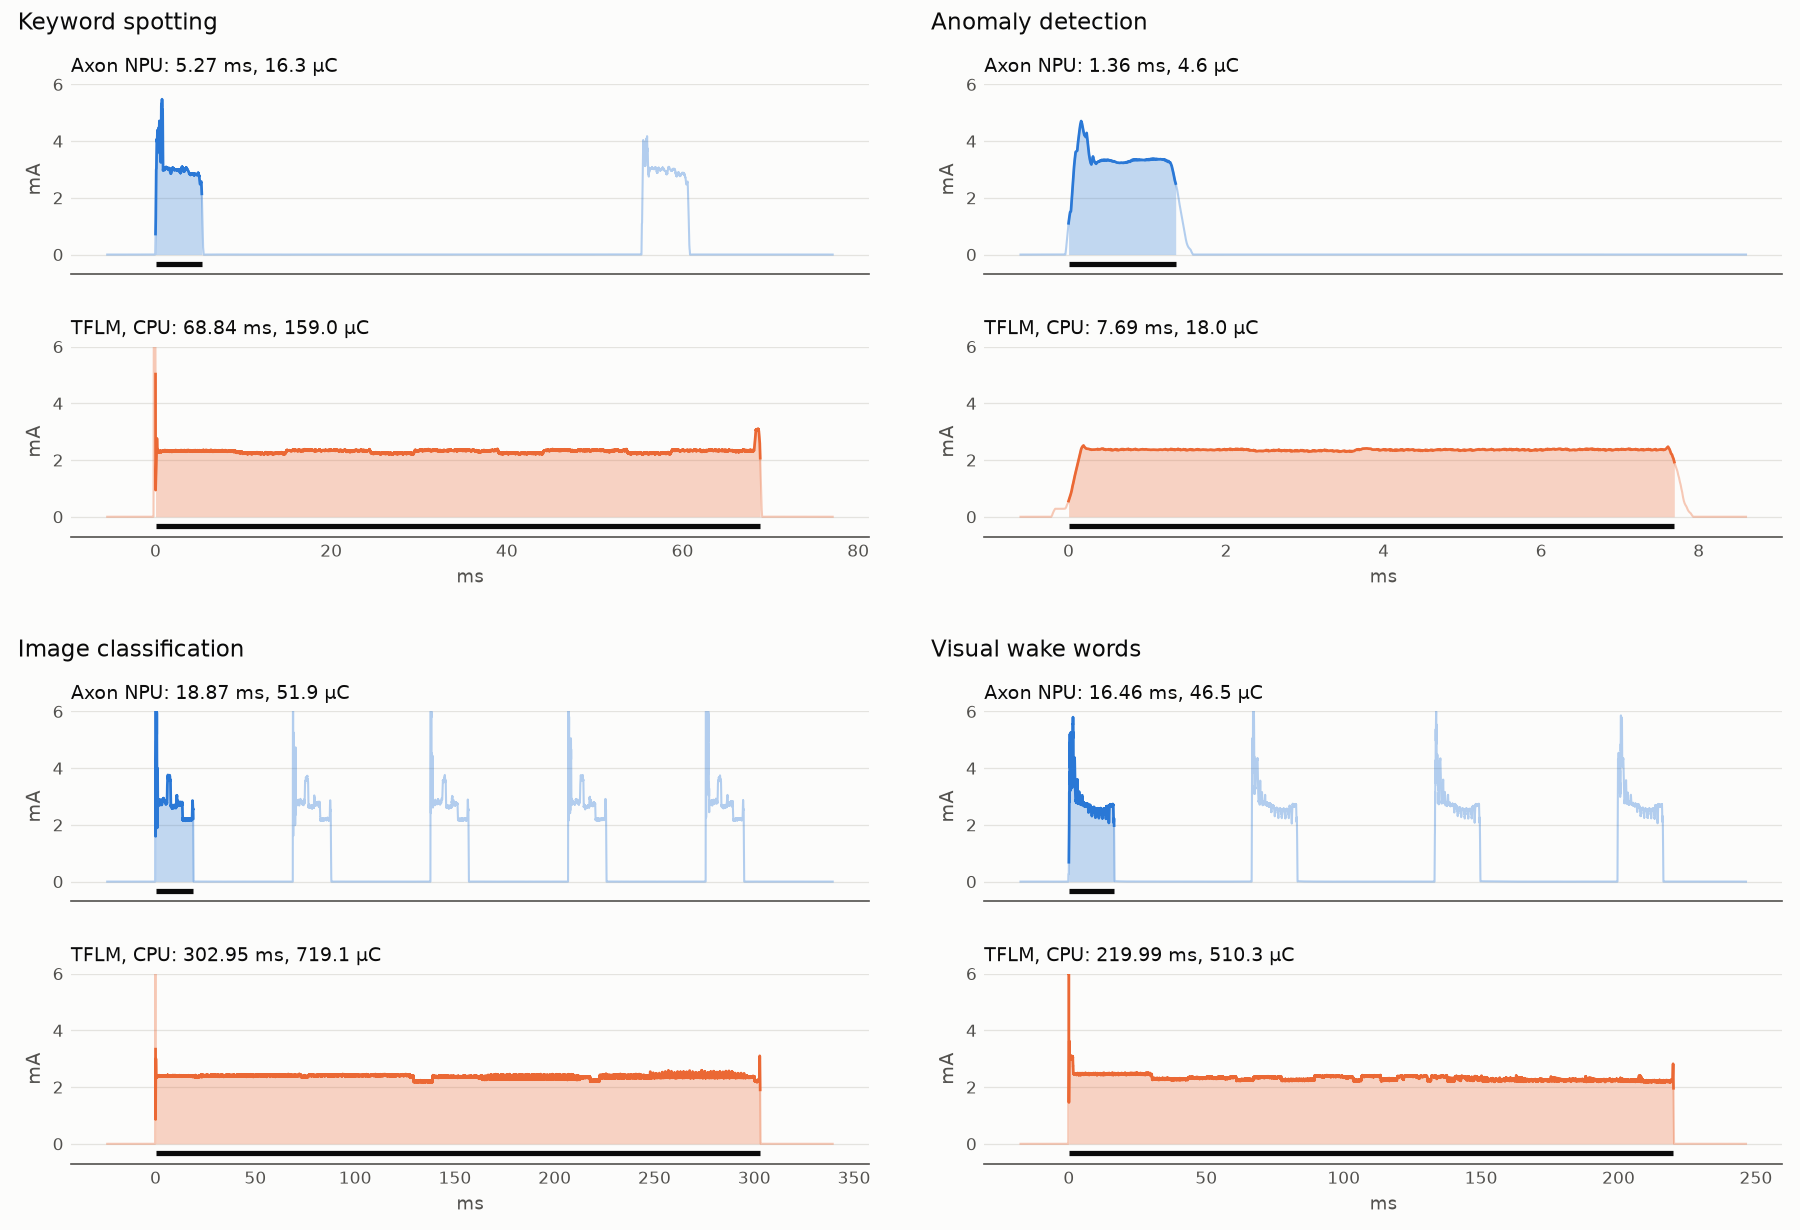
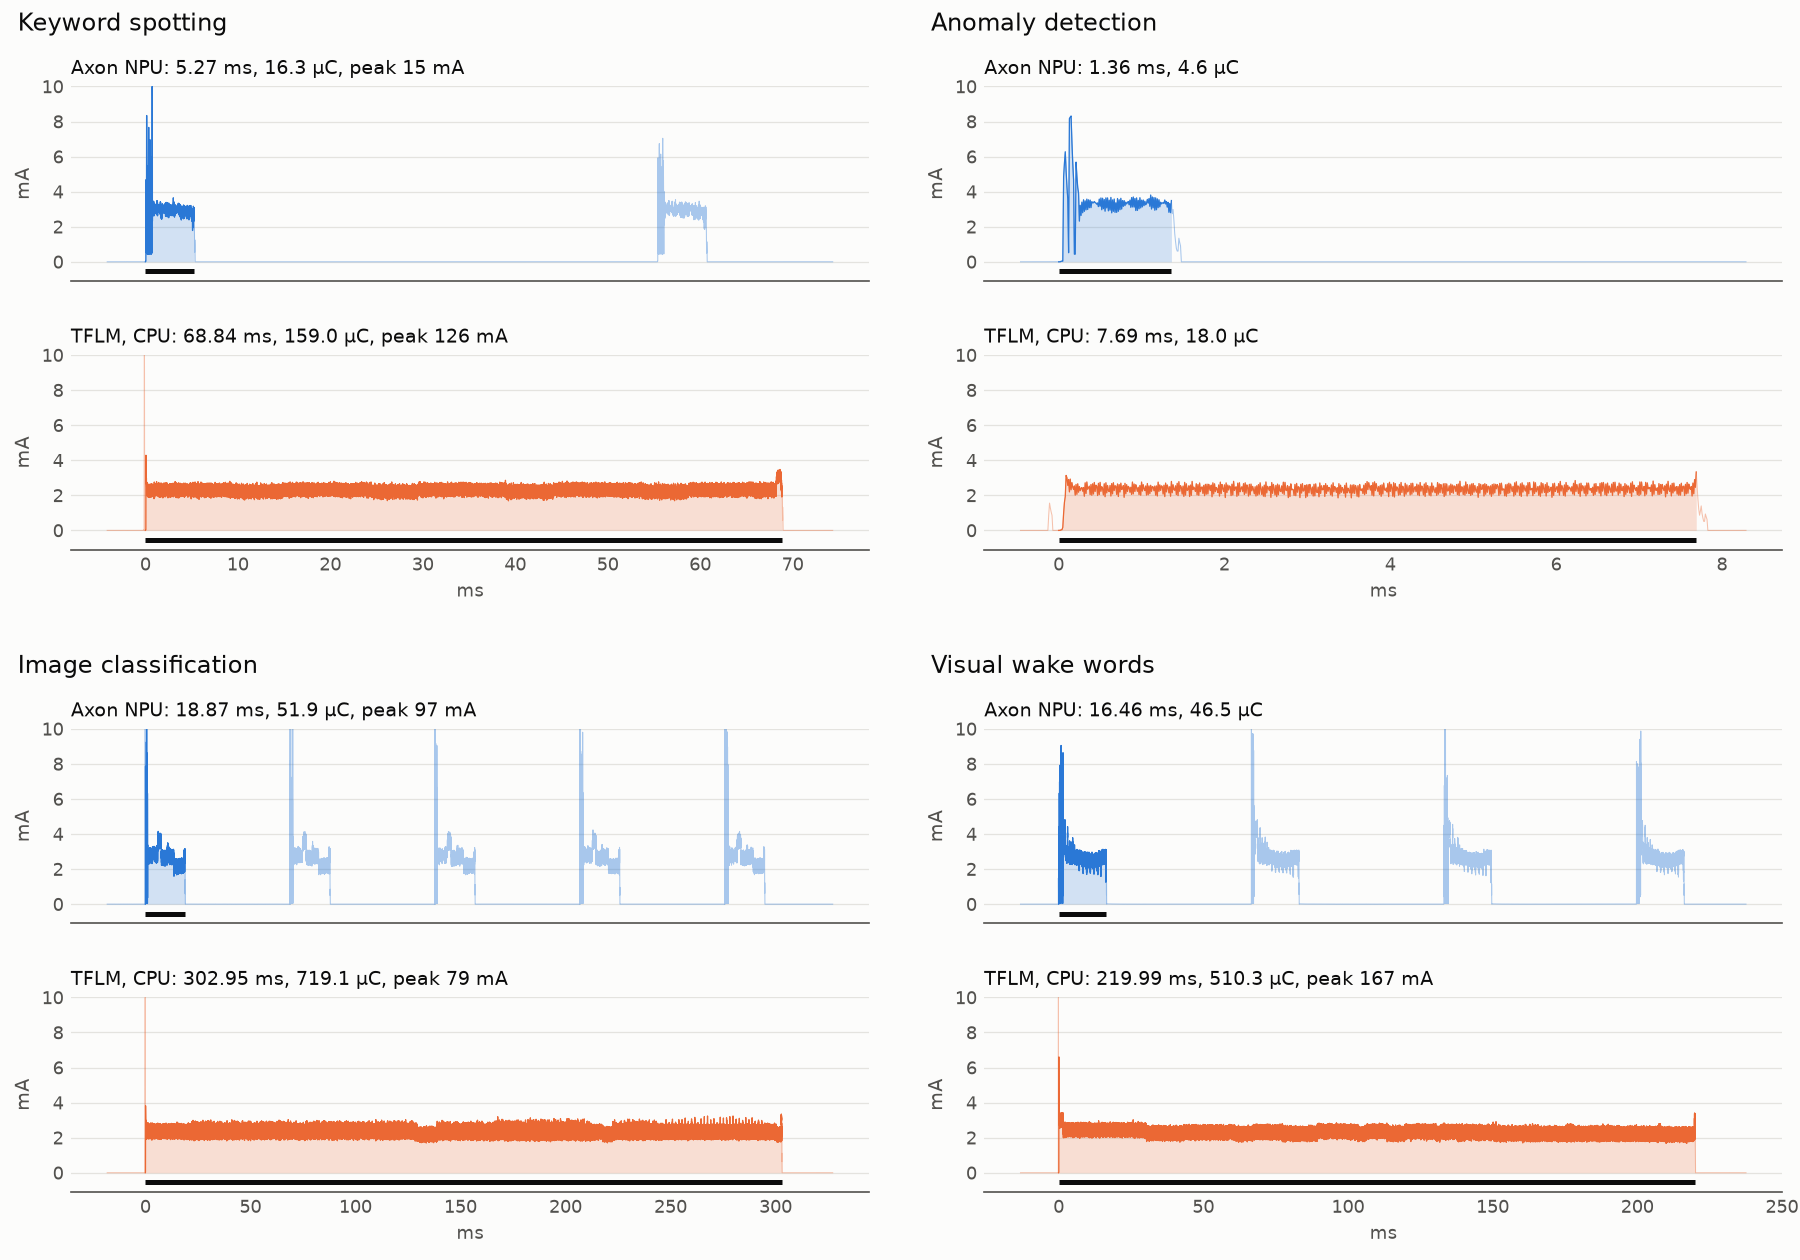
bench: bars and raw traces in separate 2x2 figures

diff --git a/bench/plot.py b/bench/plot.py
@@ -16,122 +16,94 @@ MODELS = {"kws": "Keyword spotting", "ad": "Anomaly detection",
           "ic": "Image classification", "vww": "Visual wake words"}
 BACKENDS = {"axon": ("Axon NPU", "#2a78d6"), "tflm": ("TFLM, CPU", "#eb6834")}
 INK, MUTED, SURFACE, GRID = "#0b0b0b", "#52514e", "#fcfcfb", "#e4e3df"
-DT = 1e-5        # s per sample
-YMAX = 6.0       # mA: the wake-up bursts of the PPK2 go above
-SMOOTH = 20      # samples of the moving average, 0.2 ms
-captures = {}
+DT = 1e-5      # s per sample
+YMAX = 10.0    # mA: the wake-up bursts of the PPK2 go above
 
 
 def style(ax):
     ax.set_facecolor(SURFACE)
     ax.grid(axis="y", color=GRID, linewidth=0.6)
     ax.set_axisbelow(True)
-    ax.tick_params(labelsize=8, colors=MUTED, length=0)
+    ax.tick_params(labelsize=8.5, colors=MUTED, length=0)
     for side in ("top", "right", "left"):
         ax.spines[side].set_visible(False)
     ax.spines["bottom"].set_color(MUTED)
 
 
+def report(backend, model):
+    """Width in ms and median charge in µC of the D0 regions, from the report."""
+    text = (HERE / f"{backend}_{model}.txt").read_text()
+    line = next(l for l in text.splitlines() if l.startswith("D0 "))
+    return float(re.search(r"width\s+([\d.]+)", line).group(1)), float(re.search(r"median ([\d.]+)", line).group(1))
+
+
+def bars(index, unit, what, out):
+    fig, axes = plt.subplots(2, 2, figsize=(7.2, 6.2), facecolor=SURFACE)
+    for ax, (model, title) in zip(axes.flat, MODELS.items()):
+        values = [report(backend, model)[index] for backend in BACKENDS]
+        drawn = ax.bar(range(2), values, width=0.58, color=[c for _, c in BACKENDS.values()])
+        for bar, value in zip(drawn, values):
+            ax.text(bar.get_x() + bar.get_width() / 2, value, f"{value:,.0f}" if value >= 100 else f"{value:.3g}",
+                    ha="center", va="bottom", fontsize=9.5, color=INK)
+        ax.set_title(f"{title}\n{values[1] / values[0]:.1f} times less on Axon", fontsize=10, color=INK, loc="left")
+        ax.set_ylim(0, max(values) * 1.15)
+        ax.set_xlim(-0.8, 1.8)
+        ax.set_xticks([])
+        ax.set_ylabel(unit, fontsize=9, color=MUTED)
+        ax.locator_params(axis="y", nbins=5)
+        style(ax)
+    fig.legend(handles=[plt.Rectangle((0, 0), 1, 1, color=c) for _, c in BACKENDS.values()],
+               labels=[n for n, _ in BACKENDS.values()], loc="lower center", ncol=2, frameon=False,
+               fontsize=9.5, labelcolor=INK)
+    fig.suptitle(f"{what} per inference on the nRF54LM20B", fontsize=11.5, color=INK, x=0.02, ha="left")
+    fig.tight_layout(rect=(0, 0.05, 1, 0.96))
+    fig.savefig(HERE / out, dpi=150)
+
+
 def capture(backend, model):
-    """Current in µA, the regions where D0 is high, and the one with the median charge."""
-    if (backend, model) not in captures:
-        rows = np.loadtxt(HERE / f"{backend}_{model}.csv", delimiter=",", skiprows=1, usecols=(1, 3))
-        current, d0 = rows[:, 0], rows[:, 1].astype(np.int8)
-        edges = np.flatnonzero(np.diff(d0)) + 1
-        rises = [e for e in edges if d0[e] == 1]
-        falls = [e for e in edges if d0[e] == 0 and e > rises[0]]
-        regions = list(zip(rises, falls))
-        charge = [current[a:b].sum() * DT for a, b in regions]
-        captures[backend, model] = current, regions, int(np.argsort(charge)[len(charge) // 2]), charge
-    return captures[backend, model]
+    """Current in µA, and the D0 region with the median charge."""
+    rows = np.loadtxt(HERE / f"{backend}_{model}.csv", delimiter=",", skiprows=1, usecols=(1, 3))
+    current, d0 = rows[:, 0], rows[:, 1].astype(np.int8)
+    edges = np.flatnonzero(np.diff(d0)) + 1
+    rises = [e for e in edges if d0[e] == 1]
+    falls = [e for e in edges if d0[e] == 0 and e > rises[0]]
+    regions = list(zip(rises, falls))
+    charge = [current[a:b].sum() * DT for a, b in regions]
+    return current, regions[int(np.argsort(charge)[len(charge) // 2])]
 
 
-def trace(ax, backend, model, span, detailed):
-    """One inference, from just before its start, over `span` ms."""
-    name, colour = BACKENDS[backend]
-    current, regions, i, charge = capture(backend, model)
-    a, b = regions[i]
-    lo, hi = a - int(0.08 * span / 1e3 / DT), a + int(1.12 * span / 1e3 / DT)
-    t = (np.arange(lo, hi) - a) * DT * 1e3
-    y = np.convolve(current[lo:hi] / 1000, np.ones(SMOOTH) / SMOOTH, mode="same")
-    width = (b - a) * DT * 1e3
-    inside = (t >= 0) & (t <= width)
-    ax.plot(t, np.minimum(y, YMAX), color=colour, linewidth=1.0, alpha=0.35)
-    ax.plot(t[inside], np.minimum(y[inside], YMAX), color=colour, linewidth=1.3)
-    ax.fill_between(t, 0, np.minimum(y, YMAX), where=inside, color=colour, alpha=0.28, linewidth=0)
-    ax.hlines(-0.32, 0, width, color=INK, linewidth=2.5)
-    label = f"{name}: {width:.2f} ms, {charge[i]:.1f} µC"
-    if detailed:
-        label += f", mean {current[a:b].mean() / 1000:.2f} mA"
-        if y.max() > YMAX:
-            peak = t[int(np.argmax(y))]
-            ax.annotate(f"wake-up burst, to {y.max():.0f} mA", xy=(peak, YMAX),
-                        xytext=(peak + 0.04 * span, YMAX * 0.82), fontsize=8, color=MUTED,
-                        arrowprops=dict(arrowstyle="-", color=MUTED, linewidth=0.6))
-        if i + 1 < len(regions) and (regions[i + 1][0] - a) * DT * 1e3 < 1.1 * span:
-            ax.text((regions[i + 1][0] - a) * DT * 1e3, 4.7, "next inference, after a 50 ms sleep",
-                    fontsize=8, color=MUTED, ha="center")
-    ax.set_title(label, fontsize=9.5 if detailed else 9, color=INK, loc="left")
-    ax.set_ylim(-0.7, YMAX)
-    ax.set_yticks([0, 2, 4, 6])
-    ax.set_ylabel("mA", fontsize=9, color=MUTED)
-    style(ax)
-
-
-def span(model):
-    """Width in ms of the longer of the two inferences of a model."""
-    return max(r[i][1] - r[i][0] for _, r, i, _ in (capture(b, model) for b in BACKENDS)) * DT * 1e3
-
-
-def trace_one(model, out):
-    fig, axes = plt.subplots(2, 1, figsize=(9, 4.4), sharex=True, sharey=True, facecolor=SURFACE)
-    for ax, backend in zip(axes, BACKENDS):
-        trace(ax, backend, model, span(model), True)
-    axes[1].set_xlabel("Time from the start of the inference (ms). Black bar: the D0 marker", fontsize=9, color=MUTED)
-    fig.suptitle(f"Current of the nRF54LM20B during one {MODELS[model].lower()} inference",
-                 fontsize=11, color=INK, x=0.01, ha="left")
-    fig.tight_layout(rect=(0, 0, 1, 0.97))
-    fig.savefig(HERE / out, dpi=160)
-
-
-def trace_all(out):
-    fig = plt.figure(figsize=(12, 8.2), facecolor=SURFACE)
+def traces(out):
+    """Raw samples of one inference per backend, the two of a model on the same scales."""
+    fig = plt.figure(figsize=(12, 8.4), facecolor=SURFACE)
     for sub, (model, title) in zip(fig.subfigures(2, 2, wspace=0.03, hspace=0.04).flat, MODELS.items()):
         sub.set_facecolor(SURFACE)
         axes = sub.subplots(2, 1, sharex=True, sharey=True)
-        for ax, backend in zip(axes, BACKENDS):
-            trace(ax, backend, model, span(model), False)
+        captures = {backend: capture(backend, model) for backend in BACKENDS}
+        span = max(b - a for _, (a, b) in captures.values()) * DT * 1e3
+        for ax, (backend, (name, colour)) in zip(axes, BACKENDS.items()):
+            current, (a, b) = captures[backend]
+            lo, hi = a - int(0.06 * span / 1e3 / DT), a + int(1.08 * span / 1e3 / DT)
+            t = (np.arange(lo, hi) - a) * DT * 1e3
+            y = current[lo:hi] / 1000
+            width = (b - a) * DT * 1e3
+            inside = (t >= 0) & (t <= width)
+            ax.plot(t, np.minimum(y, YMAX), color=colour, linewidth=0.5, alpha=0.4)
+            ax.plot(t[inside], np.minimum(y[inside], YMAX), color=colour, linewidth=0.6)
+            ax.fill_between(t, 0, np.minimum(y, YMAX), where=inside, color=colour, alpha=0.2, linewidth=0)
+            ax.hlines(-0.55, 0, width, color=INK, linewidth=2.4)
+            peak = y[(t >= -0.02 * span) & (t <= width)].max()
+            ax.set_title(f"{name}: {width:.2f} ms, {current[a:b].sum() * DT:.1f} µC"
+                         + (f", peak {peak:.0f} mA" if peak > YMAX else ""), fontsize=9, color=INK, loc="left")
+            ax.set_ylim(-1.1, YMAX)
+            ax.set_yticks([0, 2, 4, 6, 8, 10])
+            ax.set_ylabel("mA", fontsize=9, color=MUTED)
+            style(ax)
         axes[1].set_xlabel("ms", fontsize=8.5, color=MUTED)
-        sub.suptitle(title, fontsize=11, color=INK, x=0.02, ha="left")
+        sub.suptitle(title, fontsize=11.5, color=INK, x=0.02, ha="left")
         sub.subplots_adjust(left=0.08, right=0.98, top=0.86, bottom=0.11, hspace=0.38)
     fig.savefig(HERE / out, dpi=150)
 
 
-def time_bars(out):
-    fig, axes = plt.subplots(1, len(MODELS), figsize=(9, 2.9), facecolor=SURFACE)
-    for ax, (model, title) in zip(axes, MODELS.items()):
-        values = []
-        for backend in BACKENDS:
-            line = next(l for l in (HERE / f"{backend}_{model}.txt").read_text().splitlines() if l.startswith("D0 "))
-            values.append(float(re.search(r"width\s+([\d.]+) ms", line).group(1)))
-        bars = ax.bar(range(len(values)), values, width=0.62, color=[c for _, c in BACKENDS.values()])
-        for bar, value in zip(bars, values):
-            ax.text(bar.get_x() + bar.get_width() / 2, value, f"{value:,.0f}" if value >= 100 else f"{value:.3g}",
-                    ha="center", va="bottom", fontsize=9, color=INK)
-        ax.set_title(f"{title}\n{values[1] / values[0]:.1f} times less on Axon", fontsize=9, color=INK, loc="left")
-        ax.set_ylim(0, max(values) * 1.15)
-        ax.set_xticks([])
-        style(ax)
-    axes[0].set_ylabel("ms", fontsize=9, color=MUTED)
-    fig.legend(handles=[plt.Rectangle((0, 0), 1, 1, color=c) for _, c in BACKENDS.values()],
-               labels=[n for n, _ in BACKENDS.values()], loc="lower center", ncol=2, frameon=False,
-               fontsize=9, labelcolor=INK)
-    fig.suptitle("Time per inference on the nRF54LM20B (each panel has its own scale)", fontsize=11, color=INK,
-                 x=0.01, ha="left")
-    fig.tight_layout(rect=(0, 0.08, 1, 0.97))
-    fig.savefig(HERE / out, dpi=160)
-
-
-trace_one("kws", "trace_kws.png")
-trace_all("traces.png")
-time_bars("latency.png")
+bars(0, "ms", "Time", "latency.png")
+bars(1, "µC", "Charge", "charge.png")
+traces("traces.png")

diff --git a/bench/README.md b/bench/README.md
@@ -46,21 +46,24 @@ standard deviation of the charge over the regions of one capture.
 
 The charge ratio is that of the medians.
 
+![Time per inference of the four models](results/latency.png)
+![Charge per inference of the four models](results/charge.png)
+
+Each panel has its own scale. The charge is the median over the regions.
+
 ![Current of the chip during one inference of each model, on the NPU and on the CPU](results/traces.png)
 
 Each pair of panels shows one inference of a model, on the NPU and on the CPU, on the same scales.
-The shaded area is the charge and the black bar is the marker. The inference drawn is the one
-with the median charge, so its figures are those of the table. The lighter pulses after an Axon
-inference are the next ones.
+The samples are raw, at 100,000 per second. The shaded area is the charge and the black bar is the
+marker. The inference drawn is the one with the median charge, so its figures are those of the
+table. The lighter pulses after an Axon inference are the next ones.
 
-The curves are a moving average over 0.2 ms. The current axis stops at 6 mA: the peaks that
-leave it last a few samples and are the PPK2's wake-up bursts, described under
+The current axis stops at 10 mA. Where samples leave it, the panel gives the peak. Those peaks last
+a few samples at a wake-up and are the PPK2's wake-up bursts, described under
 [Measurement](#measurement).
 
 While it runs, the NPU raises the mean current of the chip by 0.4 to 1.0 mA over the CPU alone.
 The inference is 5.6 to 16.1 times shorter, so the charge is lower.
-
-![Time per inference](results/latency.png)
 
 Between two inferences the firmware sleeps for 50 ms. The median current there is 1.44 to 1.49 µA
 in the eight captures.

diff --git a/README.md b/README.md
@@ -83,9 +83,7 @@ Both stay in flash. The model also needs 13,548 B of RAM, the interlayer buffer.
 
 [`bench/`](bench/README.md) is a second app. It measures the four MLPerf Tiny models with a [Power Profiler Kit II](https://www.nordicsemi.com/Products/Development-hardware/Power-Profiler-Kit-2) (PPK2), [zephyr-ppk2](https://github.com/rdagher/zephyr-ppk2) and [ppk2-lib](https://github.com/rdagher/ppk2-lib), on the NPU and on the CPU with TensorFlow Lite Micro (TFLM):
 
-![Current of the chip during one keyword-spotting inference, on the NPU and on the CPU](bench/results/trace_kws.png)
-
-The figure shows one keyword-spotting inference each way, on the same scales. The shaded area is the charge.
+![Charge per inference of the four models, on the NPU and on the CPU](bench/results/charge.png)
 
 On the NPU an inference takes 5.6 to 16.1 times less time and 3.9 to 13.8 times less charge than with TFLM on the same chip. See [bench/README.md](bench/README.md) for the figures, what they include and their limits.
 
